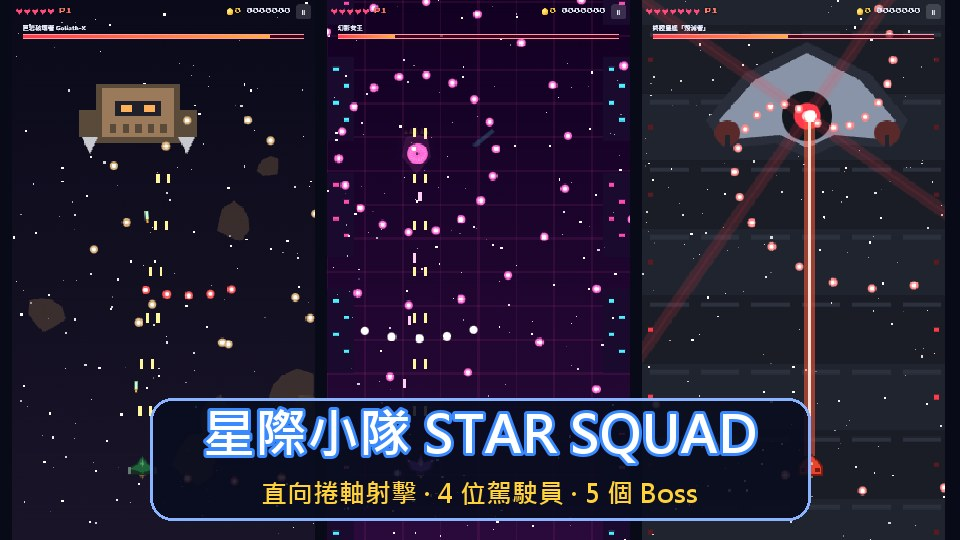
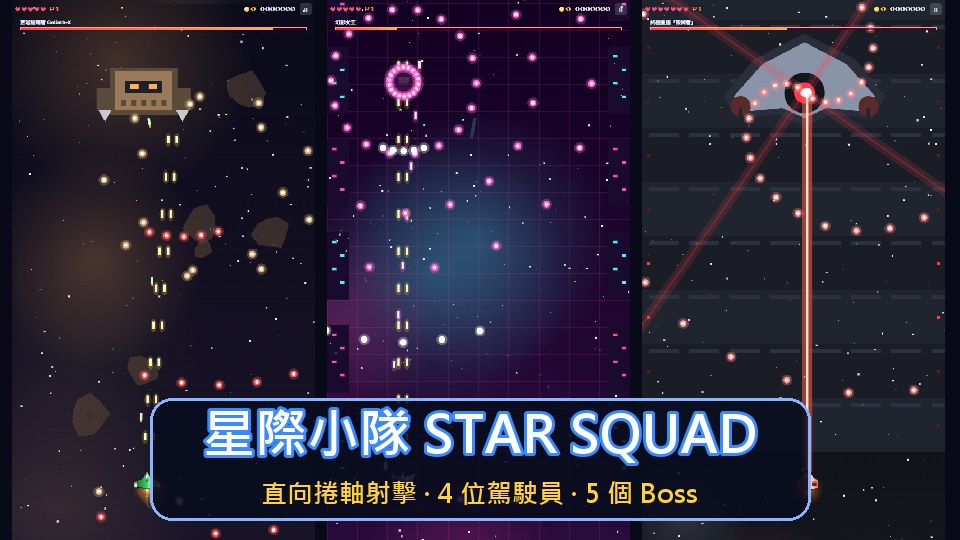
Star Squad: new thumbnail with the sharper graphics

diff --git a/games.js b/games.js
@@ -13,7 +13,7 @@ window.GAMES = [
   {
     id: 'starsquad',
     url: '/star-squad/',
-    thumb: 'thumbs/starsquad.jpg?v=1',
+    thumb: 'thumbs/starsquad.jpg?v=2',
     color: '#3a8aff',
     genres: ['action'],
     devices: ['keyboard', 'touch'],
